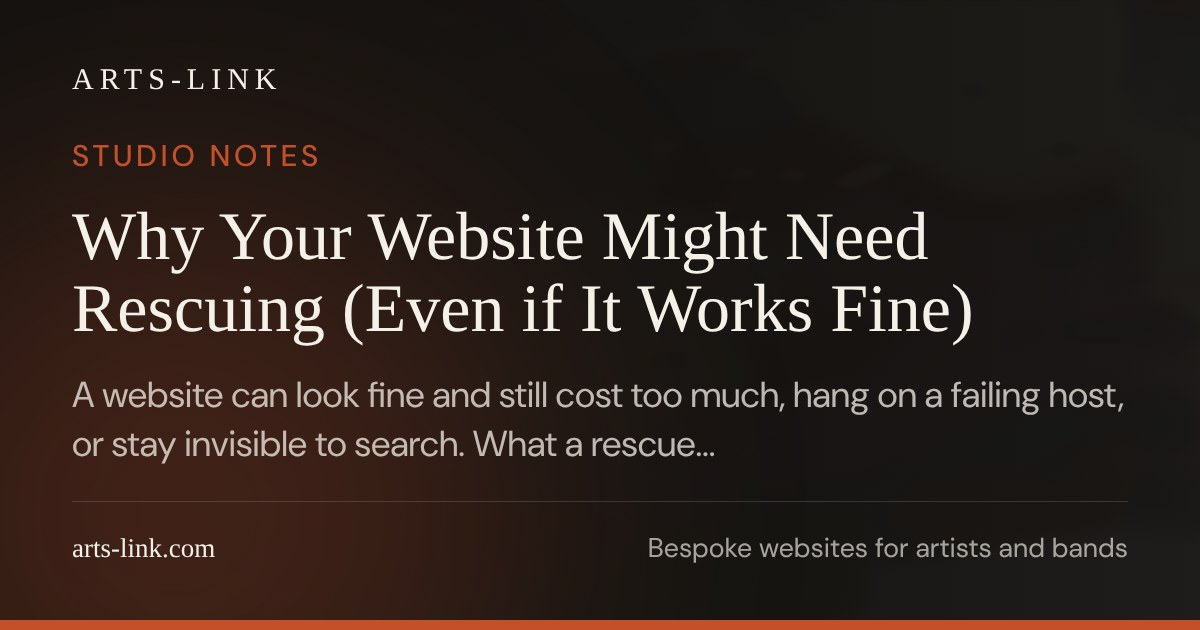
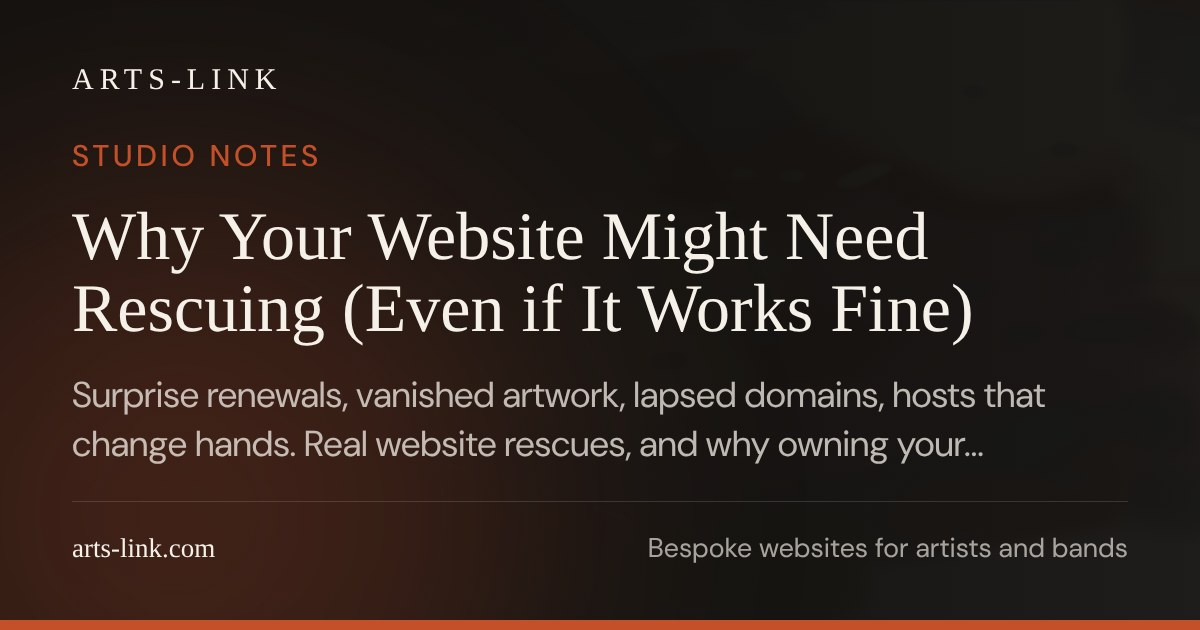
Split website rescue post; add optimization post as a draft
The rescue post now sticks to real rescue stories and the ownership
argument (about 7 minutes, down from 11). The search and discoverability
material moves to a new draft, "Your Website Isn't Broken. It's Just
Invisible.", dated 2026-12-10 with draft = true, so it builds nowhere
until published. It links back to the rescue post; the rescue post only
teases it, with no link yet.

Claude-Session: https://claude.ai/code/session_013bVqEG5CpcB6SgRDSrYpJg

Changed region(s): [[0.0617, 0.6032, 0.925, 0.754]]

diff --git a/content/blog/website-rescue/index.md b/content/blog/website-rescue/index.md
@@ -1,7 +1,7 @@
 +++
 title = "Why Your Website Might Need Rescuing (Even If It Works Fine)"
 date = 2026-11-19
-description = "A website can look fine and still cost too much, hang on a failing host, or stay invisible to search. What a rescue means when nothing seems broken."
+description = "Surprise renewals, vanished artwork, lapsed domains, hosts that change hands. Real website rescues, and why owning your site matters more than how it looks."
 draft = false
 +++
 
@@ -9,11 +9,9 @@ draft = false
 
 I hear this a lot, and usually it's true. The pages load. The pictures are there. Nobody has called to say anything is wrong.
 
-But "it works" covers a lot of ground. A website can work perfectly well while costing more every year than it should, depending on a company that's quietly falling apart, sitting in an account nobody can log into, or being almost invisible to the people searching for it. None of that shows up when you open your own homepage.
+But "it works" covers a lot of ground. A website can work perfectly well while costing more every year than it should, depending on a company that's quietly falling apart, or sitting in an account nobody can log into. None of that shows up when you open your own homepage.
 
-When I say "rescue," I don't only mean pulling something out of the rubble. Sometimes it's that. More often it means taking a site that's fine and making it more affordable, more independent, easier to find, and easier to keep going for the next ten years.
-
-And sometimes the honest answer is that nothing needs doing at all. I'll say so when that's the case.
+When I say "rescue," I don't only mean pulling something out of the rubble. Sometimes it's that. More often it means taking a site that's fine and making it cheaper, simpler, and genuinely yours. And sometimes the honest answer is that nothing needs doing at all.
 
 ---
 
@@ -21,27 +19,27 @@ And sometimes the honest answer is that nothing needs doing at all. I'll say so 
 
 The most common rescue starts with a bill.
 
-One artist I work with was paying a site builder about $330 a year for a handful of pages and a couple of domain names. Another person had four small WordPress sites costing around $150 a year between them, and none of the four had changed in a long time. A writer I've been helping was paying roughly $240 a year across three hosted sites in plans, domains and email.
+One artist I work with was paying a site builder about $330 a year for a handful of pages and a couple of domain names. Someone else had four small WordPress sites costing around $150 a year between them, and none of the four had changed in a long time.
 
-None of these are outrageous numbers. That's exactly why they keep getting paid. The renewal arrives, it's not quite enough to be worth a fight, and another year goes by.
+These aren't outrageous numbers. That's exactly why they keep getting paid. The renewal arrives, it's not quite enough to be worth a fight, and another year goes by.
 
-But think about what a lot of artists' and photographers' sites actually do. They show the work. They have an about page, a CV, a way to get in touch. New pieces go up once or twice a year. A site like that doesn't need a database, a plugin ecosystem, or a monthly subscription to a platform that's built for online stores. It needs to be fast, look right, and stay put.
+But most artists' and photographers' sites show the work, an about page, a CV and a way to get in touch, and change once or twice a year. A site like that doesn't need a database or a monthly subscription to a platform built for online stores. It needs to be fast, look right, and stay put.
 
 I once [rebuilt a small site](/work/writing-sos/) with the same design and the same content, minus the hosted system behind it that nobody was using. Visitors couldn't tell the difference. The subscription simply stopped.
 
-I want to be fair here: Squarespace, Wix and WordPress are the right answer for plenty of people. If you're updating your site every week, selling things through it, or you just love the editor, keep it. The question isn't whether these platforms are bad. It's whether they're the right fit for a site that mostly sits still.
+To be fair, Squarespace, Wix and WordPress are the right answer for plenty of people. If you update every week, sell through your site, or just love the editor, keep it. The question is only whether they fit a site that mostly sits still.
 
 ---
 
 ## When the Pictures Go Missing
 
-The same artist with the $330 bill had a second problem, and it was a stranger one.
+The same artist with the $330 bill had a stranger problem too.
 
-She has two web addresses. One is her real, current site. The other, the one printed in her email signature, turned out to be serving an old copy of the site from several years earlier. Its images pointed at files that had been deleted when the real site was updated. So anyone clicking the link in her emails landed on a version of her portfolio full of empty boxes where the artwork should be.
+She has two web addresses. One is her real, current site. The other, the one printed in her email signature, turned out to be serving an old copy of the site from several years earlier. Its images pointed at files that had been deleted when the real site was updated. Anyone clicking the link in her emails landed on a portfolio full of empty boxes where the artwork should be.
 
 Nothing was "down." Both sites loaded. From where she sat, everything worked.
 
-Untangling something like that is less about code and more about detective work. Who controls each address? Where is the current site actually hosted, and where is the old one? Where are the original image files, and which copies are the good ones? Then the part that matters most: making sure the artwork lives somewhere the owner controls, so it can't vanish again because a platform tidied up its storage.
+Untangling that is detective work more than code: who controls each address, where each site lives, where the original files are. Then the part that matters most: making sure the artwork lives somewhere the owner controls, so it can't vanish again because a platform tidied up its storage.
 
 ---
 
@@ -49,11 +47,9 @@ Untangling something like that is less about code and more about detective work.
 
 Sometimes the site really is gone.
 
-A family member's portfolio, one of the first artist sites I ever looked after, disappeared when its domain expired. The hosting was tied to the domain, so when one lapsed, the other went with it. The site wasn't hacked or deleted. It just stopped existing because a renewal was missed.
+A family member's portfolio, one of the first artist sites I ever looked after, disappeared when its domain expired. The hosting was tied to the domain, so when one lapsed, the other went with it. Nothing was hacked. A renewal was missed, which is how it usually goes: the notices go to an old email address, or a card expires, and the first sign of trouble is a friend saying, "I tried to look at your site and it's not there."
 
-That's the version of the story that tends to happen quietly. Renewal notices go to an old email address, or a credit card on file expires, and the first sign of trouble is a friend saying, "I tried to look at your site and it's not there."
-
-Even then, it's not always over. An embroidery artist I worked with had a site-builder portfolio that had been offline for years. Using public web archives and some digging, I found that the original full-resolution photographs were still sitting on the builder's own image servers, long after the site that used them had disappeared. [In that rescue](/work/alaina-varrone/), 138 artworks came back and went into a new portfolio she owns outright.
+Even then, it's not always over. An embroidery artist I worked with had a site-builder portfolio that had been offline for years. Using public web archives and some digging, I found the original full-resolution photographs still sitting on the builder's own image servers, long after the site that used them had disappeared. [In that rescue](/work/alaina-varrone/), 138 artworks came back and went into a new portfolio she owns outright.
 
 {{< figure src="embroidery-portfolio.webp" alt="Two embroidered portraits in round hoops: a pair of blonde women back to back, one scowling and one laughing, and a dark-haired woman in a patterned dress beside a small flame and a bare tree" caption="Artwork recovered from a portfolio that had been offline for years." >}}
 
@@ -69,17 +65,17 @@ One artist was told that her web host had gone out of business. It hadn't. Befor
 
 What she actually needed was for someone to log into the old hosting account, see what was really there, and sort it out. Her site was restored and rebuilt, and her studio assistant now updates it herself.
 
-This happens more often than you'd think. The designer who built the site has moved on. The domain is registered under someone's old email. One login is on a sticky note, another is lost entirely. The site works, but nobody is quite sure who owns which piece of it. That's a rescue too, even if not a single page changes.
+This happens more often than you'd think. The designer has moved on, the domain is under someone's old email, and one login is on a sticky note. The site works, but nobody is sure who owns which piece of it.
 
 ---
 
 ## The Host That Kept Changing Hands
 
-A conceptual artist came to me with a hand-built site he'd been running since the late 1990s. It had decades of work on it, made the way the early web was made, and that look was part of the art.
+A conceptual artist came to me with a hand-built site he'd been running since the late 1990s: decades of work, made the way the early web was made, and that look was part of the art.
 
 His longtime hosting company had been absorbed into a bigger provider. After that, support got harder to reach, the visitor statistics stopped working, and the server filled up with duplicate folders he didn't recognize. Another annual bill was coming. He didn't want a new website. He wanted something affordable, dependable, and easy to keep running.
 
-[That's what he got](/work/nihilists-net/): the same site, still unmistakably itself, moved to secure hosting with no annual hosting fee, working statistics, and 36 redirects so that old bookmarks still land in the right place. He edits his pages the same way he always has.
+[That's what he got](/work/nihilists-net/): the same site, still unmistakably itself, on secure hosting with no annual hosting fee, working statistics, and 36 redirects so old bookmarks still land in the right place. He edits his pages the same way he always has.
 
 Notice what didn't happen: a redesign. Sometimes the best rescue changes nothing a visitor can see.
 
@@ -89,62 +85,25 @@ Notice what didn't happen: a redesign. Sometimes the best rescue changes nothing
 
 Underneath all of these stories is the same question: who actually owns this thing?
 
-Most people assume that if they pay for it, it's theirs. But there are a few distinctions that matter.
+**Owning your domain isn't the same as controlling your website.** The domain is the address. The website is the building. You can own the address outright and still have no way to get the building out of someone else's lot.
 
-**Owning your domain isn't the same as controlling your website.** Your domain is the address. The website is the building. You can own the address outright and still have no way to get the building out of someone else's lot.
-
-**Having a login to a site builder isn't the same as having your site.** You can edit it, but you can't pick it up and take it somewhere else. If you leave, you usually start over.
+**A login to a site builder isn't the same as having your site.** You can edit it, but you can't pick it up and take it somewhere else. If you leave, you usually start over.
 
 **Renting hosting is fine. Being locked into it isn't.** Every website lives on someone's servers. The question is whether you could move to different ones next week without rebuilding.
 
 **A website that works today isn't the same as one that can be maintained and moved tomorrow.** The first is a good start. The second is the point.
 
-The way I build sites, the client owns all of it: the code repository, the source files, the content, the images, the domain, and the hosting account. Nothing is locked inside a proprietary builder. If you want to move your site to a different host, it can usually be done quickly, often in minutes, without rebuilding anything. And if you ever want someone else to look after it instead of me, you hand them everything.
+The way I build sites, the client owns all of it: the code repository, the source files, the content, the images, the domain, and the hosting account. Nothing is locked inside a proprietary builder. If you want to move to a different host, it can usually be done quickly, often in minutes, without rebuilding anything. And if you ever want someone else to look after it instead of me, you hand them everything.
 
 I'd rather you keep working with me because it's going well, not because leaving would be painful.
 
 ---
 
-## Your Website Isn't Broken, It's Just Invisible
-
-There's another kind of rescue that has nothing to do with bills or disappearing hosts. Everything works, the site looks good, and the owner is happy. But search engines can't make much sense of it.
-
-The writer I mentioned earlier has a site that ranks first for the searches that matter most to it. By any normal measure, it's a success. Yet when we looked at what Google had actually indexed, 54 of its individual essays had been crawled and then left out. No sitemap had ever been submitted. The homepage's title and main heading needed fixing. A font file that nothing on the page used was loading on every visit. None of that was visible from the front door.
-
-You'd never notice problems like these from looking at your own site. A few common ones:
-
-**Pages that don't say what they are.** Every page titled "Home," or no description at all, so search results show whatever fragment the search engine guesses. Images with no text description, which means a search engine can't tell a painting from a placeholder, and neither can someone using a screen reader. Links to pages that moved years ago.
-
-**Pages search engines can't reach.** A setting left over from development that tells search engines to stay away. No map of the site for them to follow. Two addresses for the same page, so neither one gets full credit.
-
-**Missing context.** People can tell, glancing at a page, that this is an artist, that these are paintings, and that this is a list of exhibitions. Machines need to be told. There's a standard way to label that information, called structured data, that spells out who you are, what your works are, where you've shown, and how the pages relate.
-
-**AI tools that summarize the web.** More and more people find artists and organizations by asking an AI assistant rather than typing into a search box. Nobody can promise that any particular site will be mentioned in those answers, and you should be wary of anyone who does. But a site with clear writing, a sensible structure, and well-labeled information is easier for these systems to read and to cite correctly.
-
-**Bad social previews.** A site can look great until someone shares a link to your opening and the preview shows the wrong picture, a cropped logo, or nothing at all. Behind the scenes, a few lines of hidden information decide which image and description appear when your link is posted. Every page on this site has its own preview card for that reason.
-
-**Slow, heavy, hard to use.** Photographs uploaded straight from the camera, so a gallery page weighs as much as a small app. Layouts that fall apart on a phone. Light gray text on white. Menus that can't be used without a mouse. These turn away visitors who never tell you they left.
-
-**No idea who's visiting.** You should be able to see, simply, whether people are finding your site, how they got there, and which pages they look at. That doesn't require invasive tracking, cookie banners, or an expensive analytics plan.
-
-For artists, the point isn't ranking for some generic phrase like "contemporary painter." It's making sure that when someone searches for your name, a specific piece, a past exhibition, or a project they heard about, they find you, and what they find is accurate.
-
-And none of this has to change how your site looks. Some of the most valuable work happens entirely behind the scenes.
-
----
-
 ## Your Website Doesn't Have to Be on Fire
 
-So what does a website rescue look like? It might mean:
+So a rescue might mean recovering images and pages that have gone missing, rebuilding a site that disappeared with an expired domain, getting out of a subscription you no longer need, or untangling domains and logins so you know what you own. Or it might mean moving a perfectly good website to a cheaper, more dependable arrangement.
 
-- recovering images and pages that have gone missing
-- rebuilding a site that disappeared with an expired domain or a closed account
-- getting out of a subscription you no longer need
-- untangling domains, logins and hosting accounts so you know what you own
-- making your work easier to find in search and to share
-- or simply moving a perfectly good website to a cheaper, more dependable arrangement
-
-Most websites don't need to be torn down and rebuilt. Many just need someone to look at them carefully and fix the things nobody can see.
+There's one more kind I'll write about separately: the site that looks good and works well, but that search engines and the people searching for you can barely see. That one is often fixed without touching the design at all.
 
 Your website doesn't have to be on fire to need a rescue.
 

diff --git a/content/blog/invisible-website.md b/content/blog/invisible-website.md
@@ -1,0 +1,106 @@
++++
+title = "Your Website Isn't Broken. It's Just Invisible."
+date = 2026-12-10
+description = "A good-looking website can still be hard to find. The hidden problems that keep artists' sites out of search, AI answers and link previews, and how to fix them."
+draft = true
++++
+
+Picture a website that looks good, loads, and makes its owner happy. Anyone who already knows the address can find everything on it.
+
+And for a lot of the people who might be looking for it, it's practically invisible.
+
+That's not a contradiction. What you see when you open your own site and what a search engine sees when it visits are two different things. A site can be beautiful to people and confusing to machines, and these days, machines decide a lot about who finds you.
+
+I wrote recently about [websites that need rescuing](/blog/website-rescue/) even though they work fine: the surprise bills, the lapsed domains, the hosts that change hands. This is a different problem. Nothing is going wrong behind the scenes. Something just isn't happening.
+
+---
+
+## The Site That Ranks First and Still Goes Missing
+
+A writer I've been working with has a site that ranks first in search for the phrases that matter most to it. By any normal measure, it's a success.
+
+Then we looked at what Google had actually done with it. Of the site's individual essays, 54 had been visited by Google's crawler and then left out of the index, which means they couldn't turn up in search results at all. No sitemap had ever been submitted to tell the search engine what was there. The homepage's title and main heading needed fixing. And a 418 KB font file that nothing on the page used was loading anyway.
+
+None of that was visible from the front door. The site looked exactly as it should.
+
+I can't tell you yet what fixing them does for that site; the rebuild is new, and nobody can promise rankings anyway. What I can say is that each of these was a specific, checkable problem with a specific fix, and none of them required changing what the site looks like.
+
+---
+
+## Does Every Page Say What It Is?
+
+Most of the problems I find are surprisingly ordinary.
+
+Every page has a title that shows up in the browser tab and as the blue link in search results. On a lot of sites, every page is titled "Home," or the artist's name and nothing else. Each page also gets a short description, the gray text under that link. When there isn't one, the search engine grabs whatever fragment it likes, which is how a portfolio can end up described by its cookie notice.
+
+Headings matter too. A page should have one main heading that says what it's about, and sections under it that make sense in order. People skim that way, and so do search engines.
+
+And images need words. Every picture can carry a short text description, called alt text, that tells a search engine and anyone using a screen reader what's in it. Without it, a painting and a placeholder look the same. For an artist, whose whole site is pictures, that's a lot of invisible work.
+
+---
+
+## Can Search Engines Get In?
+
+Sometimes the problem is more basic: search engines can't reach the pages at all.
+
+A setting left over from when the site was being built tells search engines to stay away. There's no sitemap, the simple list of pages that helps them find everything. The same page lives at two or three slightly different addresses, so the credit gets split between them instead of going to one. Pages moved years ago, and the old links lead nowhere.
+
+These are fixable, and they're the kind of thing worth checking before anything else. When I moved [a hand-built site that had been online since the late 1990s](/work/nihilists-net/), part of the job was 36 permanent redirects, so that addresses people had bookmarked and linked to for decades still land somewhere useful.
+
+---
+
+## Telling Machines Who You Are
+
+When you look at an artist's site, you can tell in a second that this is an artist, these are their works, this is a list of exhibitions, and that's a contact page. A search engine has to work that out from the code.
+
+There's a standard way to spell it out, called structured data. It's a small block of labeled information on each page, invisible to visitors, that says plainly: this is a person, this is their name, this is an artwork, this is a performance on this date at this place, this page belongs to that collection. This site uses it to describe the studio and its services.
+
+It doesn't change how anything looks. It just removes the guesswork.
+
+---
+
+## What About AI Search?
+
+More and more people find artists, writers and organizations by asking an AI assistant a question instead of typing into a search box. That raises a reasonable worry: is my work part of those answers?
+
+I'll be straight about this. Nobody controls what those systems include, and anyone promising to get you "into" AI answers is promising something they can't deliver.
+
+What does help is the same groundwork that helps search: clear writing that says who you are and what you make, pages that each have one job, accurate titles and descriptions, and labeled information about your work. A site like that is easier for any system, human or otherwise, to read and to quote correctly. That's worth doing for its own sake, and it doesn't depend on guessing where AI search goes next.
+
+---
+
+## The Wrong Picture in the Preview
+
+Here's one most people only notice when it's embarrassing. Someone shares a link to your show, and the preview that appears in their post or message shows the wrong image, a stretched logo, or nothing at all.
+
+That preview is controlled by a few lines of hidden information on each page that say which image, title and description to use when the link is shared. It's often left at whatever the platform defaults to.
+
+On the sites I've built recently, every page gets its own preview image. When I rebuilt [an embroidery artist's portfolio](/work/alaina-varrone/), every piece of art got its own permanent page and its own preview card, so sharing a single work shows that work.
+
+---
+
+## Fast, Readable, and Usable on a Phone
+
+A gallery page with photographs uploaded straight from a camera can weigh as much as a small app. On a good connection it's just slow. On a phone in a gallery basement, it never finishes loading.
+
+The same goes for things that keep people out without anyone noticing: light gray text on white, layouts that fall apart on a small screen, menus that only work with a mouse. Search engines pay attention to speed and mobile layouts, but the bigger reason to fix them is the visitors who leave and never tell you why.
+
+That embroidery portfolio scores 100 on Google's desktop Lighthouse test, a common measure of speed and good practice. Scores aren't the goal, but they're a useful check that nothing is getting in the way.
+
+---
+
+## Knowing Whether Anyone Finds You
+
+Finally, you should be able to answer a simple question: are people finding my site, how, and what do they look at?
+
+That doesn't have to mean invasive tracking or a cookie banner. On recent sites I've set up visitor statistics that don't use cookies at all. The trade-off is that they can't recognize a returning visitor, which is why it's your decision, not mine. Paired with Google's free Search Console, which shows the searches your site appears for, that's usually enough to see what's working.
+
+---
+
+## You Don't Need a New Website for This
+
+The common thread: almost none of this requires a redesign. It's titles and descriptions, image text, a sitemap, redirects, labeled information, preview images, lighter files and a sensible way to count visitors. Most of it happens where visitors never look.
+
+For artists, the point isn't to rank for some generic phrase like "contemporary painter." It's that when someone searches for your name, a particular piece, a past exhibition, or a project they heard about, they find you, and what they find is accurate.
+
+If you'd like me to look at your site with that in mind, [send me the address](/contact/). I'll tell you what I find, and what I'd leave alone.
